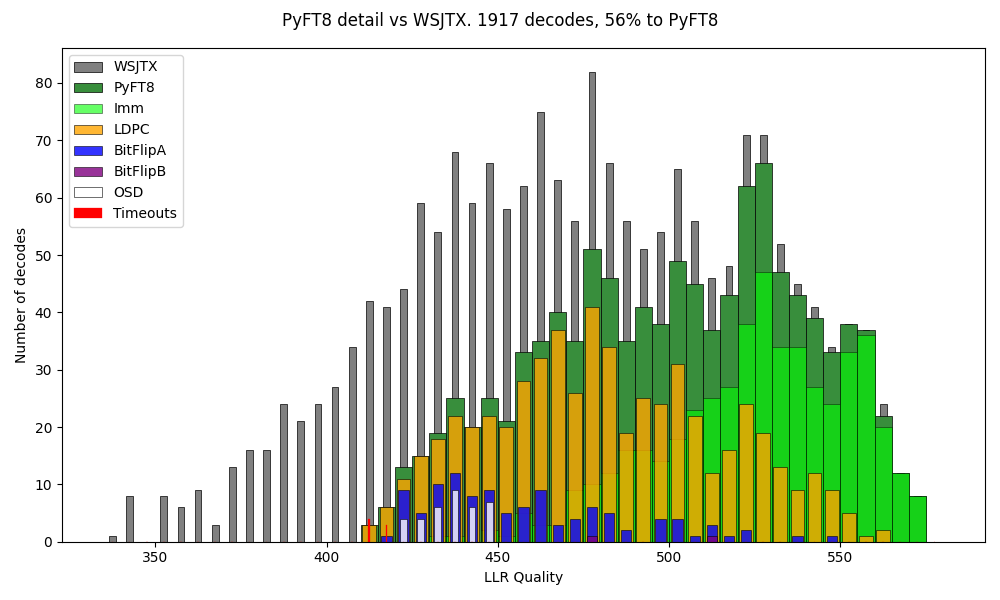
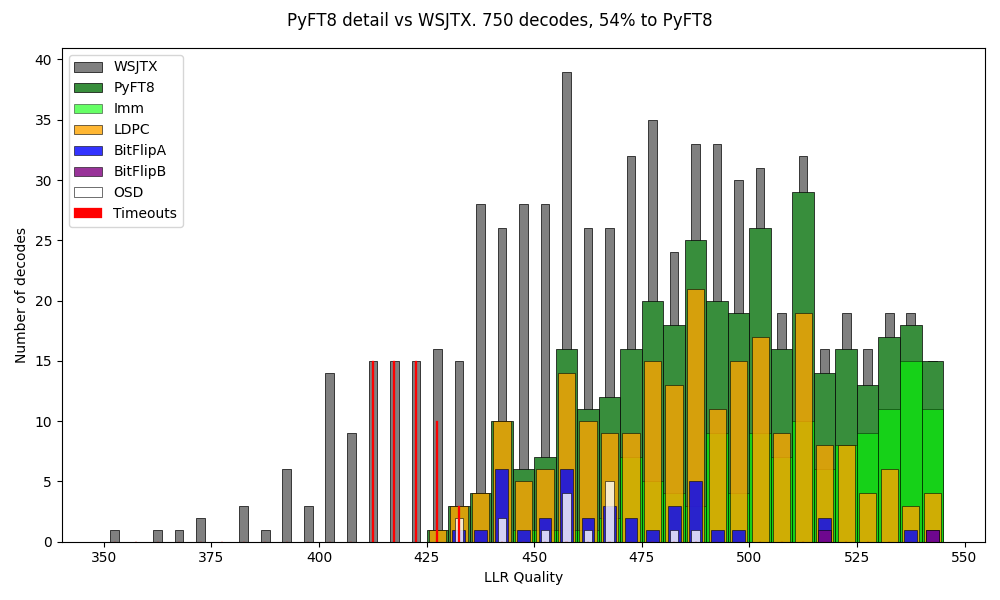
true 55% against norm

diff --git a/PyFT8/cycle_manager.py b/PyFT8/cycle_manager.py
@@ -13,7 +13,7 @@ import wave
 import os
 
 eps = 1e-12
-LLR_GEN =   {'abs_min':400, 'final_sd':3.5, 'clip':3.9}
+LLR_GEN =   {'abs_min':410, 'final_sd':3.5, 'clip':3.9}
 
 CHECK_VARS_6 = np.array([[4,31,59,92,114,145],[5,23,60,93,121,150],[6,32,61,94,95,142],[5,31,63,96,125,137],[8,34,65,98,138,145],[9,35,66,99,106,125],[11,37,67,101,104,154],[12,38,68,102,148,161],[14,41,58,105,122,158],[0,32,71,105,106,156],[15,42,72,107,140,159],[10,43,74,109,120,165],[7,45,70,111,118,165],[18,37,76,103,115,162],[19,46,69,91,137,164],[1,47,73,112,127,159],[21,46,57,117,126,163],[15,38,61,111,133,157],[22,42,78,119,130,144],[19,35,62,93,135,160],[13,30,78,97,131,163],[2,43,79,123,126,168],[18,45,80,116,134,166],[11,49,60,117,118,143],[12,50,63,113,117,156],[23,51,75,128,147,148],[20,53,76,99,139,170],[34,81,132,141,170,173],[13,29,82,112,124,169],[3,28,67,119,133,172],[51,83,109,114,144,167],[6,49,80,98,131,172],[22,54,66,94,171,173],[25,40,76,108,140,147],[26,39,55,123,124,125],[17,48,54,123,140,166],[5,32,84,107,115,155],[8,53,62,130,146,154],[21,52,67,108,120,173],[2,12,47,77,94,122],[30,68,132,149,154,168],[4,38,74,101,135,166],[1,53,85,100,134,163],[14,55,86,107,118,170],[22,33,70,93,126,152],[10,48,87,91,141,156],[28,33,86,96,146,161],[21,56,84,92,139,158],[27,31,71,102,131,165],[0,25,44,79,127,146],[16,26,88,102,115,152],[50,56,97,162,164,171],[20,36,72,137,151,168],[15,46,75,129,136,153],[2,23,29,71,103,138],[8,39,89,105,133,150],[17,41,78,143,145,151],[24,37,64,98,121,159],[16,41,74,128,169,171]], dtype = np.int16)
 CHECK_VARS_7 = np.array([[3,30,58,90,91,95,152],[7,24,62,82,92,95,147],[4,33,64,77,97,106,153],[10,36,66,86,100,138,157],[7,39,69,81,103,113,144],[13,40,70,87,101,122,155],[16,36,73,80,108,130,153],[44,54,63,110,129,160,172],[17,35,75,88,112,113,142],[20,44,77,82,116,120,150],[18,34,58,72,109,124,160],[6,48,57,89,99,104,167],[24,52,68,89,100,129,155],[19,45,64,79,119,139,169],[0,3,51,56,85,135,151],[25,50,55,90,121,136,167],[1,26,40,60,61,114,132],[27,47,69,84,104,128,157],[11,42,65,88,96,134,158],[9,43,81,90,110,143,148],[29,49,59,85,136,141,161],[9,52,65,83,111,127,164],[27,28,83,87,116,142,149],[14,57,59,73,110,149,162]], dtype = np.int16)
@@ -239,7 +239,7 @@ class Candidate:
             return "L"
 
         counter = 1
-        if(420 < self.llr0_quality < 450 and not self.counters[counter] > 0):
+        if(400 < self.llr0_quality < 490 and not self.counters[counter] > 0):
             entry_state = (self.llr, self.ncheck)
             codeword_bits, metric = osd_decode_minimal(self.llr0, self.llr0, G, order=1, L=30)
             self.llr = np.array([1 if(b==1) else -1 for b in codeword_bits])
@@ -254,7 +254,7 @@ class Candidate:
             return "O"
 
         counter = 2
-        if 10 > self.ncheck > 0 and not self.counters[counter] > 4:  
+        if 7 > self.ncheck > 0 and not self.counters[counter] > 4:  
             self.flip_bits(width = 50, nbits=1, keep_best = True)
             self.counters[counter] += 1
             return "B"

diff --git a/tests/test_plot.py b/tests/test_plot.py
@@ -7,13 +7,13 @@ ws,py,pimm,pl,pba,pbb,po,pp,ft = [],[],[],[],[],[],[],[],[]
 with open(f"compare_wsjtx.csv", "r") as f:
     for lfull in f.readlines():
         pdec = lfull[88] != " "
-        l = lfull[118:]
+        l = lfull[119:]
         q = l[0:5]
         q=float(q)
         ws.append(q)
         if(pdec):
             py.append(q)
-            if(l[4:7]=='I00'): pimm.append(q)
+            if('I00' in l): pimm.append(q)
             if("L" in l): pl.append(q)
             if("A" in l): pba.append(q)
             if("B" in l): pbb.append(q)
@@ -22,7 +22,7 @@ with open(f"compare_wsjtx.csv", "r") as f:
         else:
             if(not "#" in l): ft.append(q)
 
-bins = [400 + 5*b for b in range(50)]
+bins = [350 + 5*b for b in range(40)]
 
 np = len(py)
 nt = len(ws)

diff --git a/tests/test_compare_vs_wsjtx.py b/tests/test_compare_vs_wsjtx.py
@@ -133,9 +133,9 @@ def compare(dataset, freq_range, all_file = "C:/Users/drala/AppData/Local/WSJT-X
         print("\nStopping")
         cycle_manager.running = False
 
-compare("210703_133430", [100,3100])
+#compare("210703_133430", [100,3100])
 
-#compare(None, [100,3100])
+compare(None, [100,3100])
 
 
     
